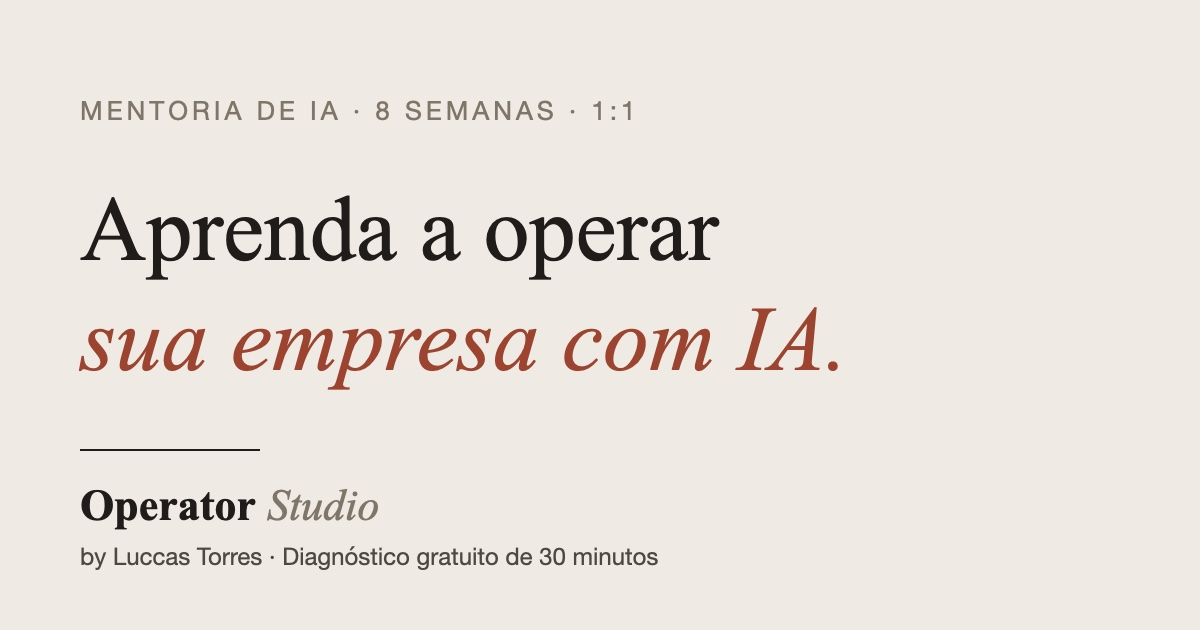
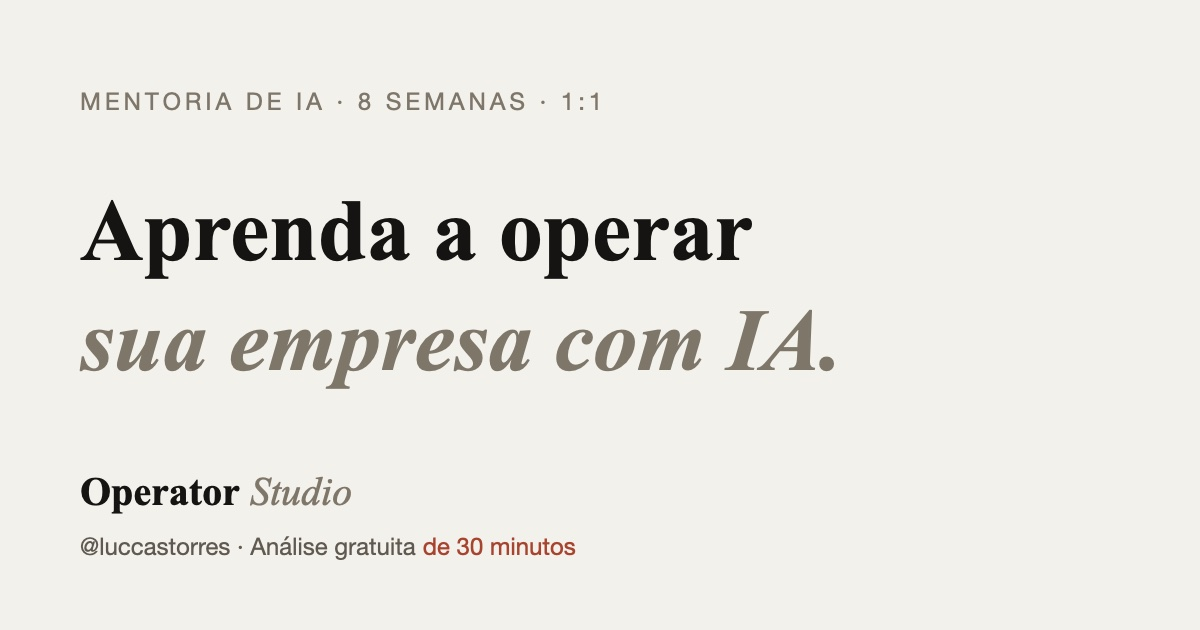
Apply the 2026 Visual Playbook palette
- Light grounds only: the former dark bands (O sistema, Como funciona),
  the console, the diagnostic card and the featured audience card invert
  their tokens to off-white ground with charcoal type
- Official tokens: off-white #FDFCF9 for cards and inputs, charcoal
  #2F2F2F for the waitlist pill, terracotta #A8442E only on
  "de 30 minutos"
- Brand lines: CTA "Análise gratuita de 30 minutos" and the promise
  "Mais tempo. Mais clientes. Menos caos." (PT and EN)
- Share image redrawn in the official palette, taupe payoff

diff --git a/index.html b/index.html
@@ -61,6 +61,7 @@
   --linen:#F3F1EC; --linen-2:#EAE6DF; --line:#D9D3C9;
   --taupe:#7E7669; --sand:#B5AEA2; --soft:#5F594F;
   --ok:#6E8B6A;
+  --offwhite:#FDFCF9; --terracotta:#A8442E; --charcoal:#2F2F2F;
   --serif:'Tinos','Times New Roman',Georgia,serif;
   --sans:'Hanken Grotesk','Helvetica Neue',Arial,sans-serif;
   color-scheme:light;
@@ -137,7 +138,7 @@ button{font:inherit;cursor:pointer}
 .word span{display:block;font-family:var(--sans);font-size:11px;letter-spacing:.24em;color:var(--taupe);margin-top:12px;text-transform:uppercase}
 .device{position:relative;width:min(640px,54vw);transform-style:preserve-3d;will-change:transform}
 .lid{background:#1b1a18;border-radius:14px 14px 4px 4px;padding:1.6%;box-shadow:0 50px 90px -40px rgba(21,20,18,.55),0 0 0 1px #2c2a27 inset}
-.screen{position:relative;aspect-ratio:16/10;background:#FBFAF7;border-radius:6px;overflow:hidden;container-type:inline-size}
+.screen{position:relative;aspect-ratio:16/10;background:var(--offwhite);border-radius:6px;overflow:hidden;container-type:inline-size}
 .base{height:14px;margin:0 -7%;background:linear-gradient(180deg,#CFCAC2,#A9A39A);border-radius:0 0 18px 18px;position:relative}
 .base:before{content:"";position:absolute;left:42%;right:42%;top:0;height:5px;background:#9a948b;border-radius:0 0 8px 8px}
 .shadow{position:absolute;left:4%;right:4%;bottom:-38px;height:30px;background:radial-gradient(50% 50% at 50% 50%,rgba(21,20,18,.28),transparent);filter:blur(6px)}
@@ -424,20 +425,20 @@ section{padding-block:clamp(64px,9vw,120px)}
 .fld{display:flex;flex-direction:column;gap:6px;min-width:0}
 .fld.full,.lead .full{grid-column:1/-1}
 .fld label{font-size:12px;letter-spacing:.14em;text-transform:uppercase;color:var(--taupe)}
-.fld input,.fld select,.fld textarea{font:inherit;font-size:16px;color:var(--ink);background:#FBFAF7;border:1px solid var(--line);border-radius:10px;padding:12px 14px;width:100%;box-sizing:border-box}
+.fld input,.fld select,.fld textarea{font:inherit;font-size:16px;color:var(--ink);background:var(--offwhite);border:1px solid var(--line);border-radius:10px;padding:12px 14px;width:100%;box-sizing:border-box}
 .fld input:focus,.fld select:focus,.fld textarea:focus{outline:2px solid var(--taupe);outline-offset:1px}
 .fld textarea{resize:vertical}
 .lead .btn{justify-content:center}
 
 .lbl{font-size:12px;letter-spacing:.14em;text-transform:uppercase;color:var(--taupe)}
 .days{display:grid;grid-template-columns:repeat(3,minmax(0,1fr));gap:8px}
-.day{background:#FBFAF7;border:1px solid var(--line);border-radius:12px;padding:10px 8px;text-align:center;display:flex;flex-direction:column;gap:2px;color:var(--ink)}
+.day{background:var(--offwhite);border:1px solid var(--line);border-radius:12px;padding:10px 8px;text-align:center;display:flex;flex-direction:column;gap:2px;color:var(--ink)}
 .day b{font-family:var(--serif);font-size:20px;font-weight:700}
 .day small{font-size:12px;color:var(--taupe)}
 .day[aria-pressed="true"]{background:var(--ink);border-color:var(--ink);color:var(--linen)}
 .day[aria-pressed="true"] small{color:var(--sand)}
 .slots{display:grid;grid-template-columns:repeat(4,minmax(0,1fr));gap:8px;margin-top:4px}
-.slot-b{background:#FBFAF7;border:1px solid var(--line);border-radius:10px;padding:11px 4px;font-size:15px;font-variant-numeric:tabular-nums;color:var(--ink)}
+.slot-b{background:var(--offwhite);border:1px solid var(--line);border-radius:10px;padding:11px 4px;font-size:15px;font-variant-numeric:tabular-nums;color:var(--ink)}
 .slot-b[aria-pressed="true"]{background:var(--ink);border-color:var(--ink);color:var(--linen)}
 .slot-b:disabled{color:#B9B3A8;text-decoration:line-through;cursor:not-allowed;background:transparent}
 .tz{font-size:13px;color:var(--soft)}
@@ -451,6 +452,19 @@ footer{border-top:1px solid var(--line);padding-block:28px}
 footer .wrap{display:flex;justify-content:space-between;gap:16px;flex-wrap:wrap;font-size:13px;color:var(--soft)}
 
 @media(prefers-reduced-motion:reduce){*,*:before,*:after{animation:none!important;transition:none!important}html{scroll-behavior:auto}}
+
+/* Visual Playbook 2026: light grounds only. Former dark blocks invert their tokens
+   (ink becomes the off-white ground, linen becomes charcoal type). */
+.dark,.console,.diag,.who-card.feat{
+  --ink:#FDFCF9; --ink-2:#F3F1EC; --ink-line:#D9D3C9;
+  --linen:#2F2F2F; --linen-2:#2F2F2F; --sand:#7E7669;
+}
+.dark{border-top:1px solid var(--line);border-bottom:1px solid var(--line)}
+.console,.diag,.who-card.feat{border:1px solid var(--line);box-shadow:none}
+.dark .cc,.dark .find[aria-pressed="true"]{background:#F3F1EC}
+/* Cards that were light inside the old dark band keep the original light tokens */
+.dark .client{--ink:#151412; --linen:#F3F1EC; --linen-2:#EAE6DF; border:1px solid var(--line)}
+.cta-accent{color:var(--terracotta)}
 </style>
 </head>
 <body>
@@ -515,6 +529,7 @@ footer .wrap{display:flex;justify-content:space-between;gap:16px;flex-wrap:wrap;
       <div><p class="eyebrow" data-i="mtEy">A Mentoria Operator</p><h2 style="margin-top:18px"><span data-i="mtH2a">Em 8 semanas, você aprende a usar o Claude</span> <em data-i="mtH2b">para ganhar tempo e dinheiro.</em></h2></div>
       <p data-i="mtP" style="max-width:52ch">Mentoria individual, ao vivo e por videochamada. A cada semana você constrói uma peça real do seu negócio comigo e sai sabendo operar tudo sozinho. Para donos de pequenos negócios, salões, mentores e consultores.</p>
     </div>
+    <p style="font-family:var(--serif);font-size:clamp(22px,2.4vw,30px);margin:8px 0 28px"><span data-i="mtPr1">Mais tempo. Mais clientes.</span> <em data-i="mtPr2" style="color:var(--taupe)">Menos caos.</em></p>
     <div class="services">
       <div class="svc"><p class="eyebrow" data-i="mw1e">Semana 1</p><h3 data-i="mw1h">Fundamentos e assistente do negócio</h3><p data-i="mw1p" style="margin-top:10px">Um assistente que conhece o seu negócio, respostas prontas no WhatsApp e um modelo de proposta.</p></div>
       <div class="svc"><p class="eyebrow" data-i="mw2e">Semana 2</p><h3 data-i="mw2h">Marca</h3><p data-i="mw2p" style="margin-top:10px">Uma marca clara, um Brand Kit de uma página e templates no Canva.</p></div>
@@ -525,7 +540,7 @@ footer .wrap{display:flex;justify-content:space-between;gap:16px;flex-wrap:wrap;
       <div class="svc"><p class="eyebrow" data-i="mw7e">Semana 7</p><h3 data-i="mw7h">Agentes de IA e integrações</h3><p data-i="mw7p" style="margin-top:10px">Um agente que responde clientes com base no seu negócio e registra tudo no CRM.</p></div>
       <div class="svc"><p class="eyebrow" data-i="mw8e">Semana 8</p><h3 data-i="mw8h">ROI e plano de 90 dias</h3><p data-i="mw8p" style="margin-top:10px">Quanto tempo e dinheiro a IA liberou, medido em números, e o plano dos próximos 90 dias.</p></div>
     </div>
-    <p style="margin-top:32px;display:flex;flex-wrap:wrap;gap:12px;align-items:center"><a class="btn" href="#contato" data-i="mtCta">Agendar meu diagnóstico gratuito</a> <a href="#servicos" data-i="mtAlt" style="text-decoration:underline">Prefere que a gente construa para você?</a></p>
+    <p style="margin-top:32px;display:flex;flex-wrap:wrap;gap:12px;align-items:center"><a class="btn" href="#contato" data-i="mtCta">Análise gratuita de 30 minutos</a> <a href="#servicos" data-i="mtAlt" style="text-decoration:underline">Prefere que a gente construa para você?</a></p>
   </div>
 </section>
 
@@ -672,7 +687,7 @@ footer .wrap{display:flex;justify-content:space-between;gap:16px;flex-wrap:wrap;
     <div class="box">
       <div class="side">
         <p class="eyebrow" data-i="ctEy">Diagnóstico gratuito · Online</p>
-        <h2 style="margin-top:18px"><span data-i="ctH2a">Análise gratuita</span> <em data-i="ctH2b">de 30 minutos.</em></h2>
+        <h2 style="margin-top:18px"><span data-i="ctH2a">Análise gratuita</span> <em class="cta-accent" data-i="ctH2b">de 30 minutos.</em></h2>
         <p data-i="ctP">Escolha um horário e reserve sua análise gratuita de 30 minutos. Vamos mostrar onde o seu negócio pode economizar tempo e dinheiro.</p>
         <div class="copyline"><span data-i="ctOr">Ou fale direto:</span><a href="https://www.instagram.com/luccastorres/" target="_blank" rel="noopener"><code id="handle">@luccastorres</code></a><button type="button" id="copy" data-i="ctCopy">Copiar</button></div>
       </div>
@@ -720,7 +735,7 @@ orcH:'Build a budget',exTag:'Sample figures',orcL1:'Rooms',orcL2:'Finish',sh1:'S
 orcNote:'In the real system, every line comes from the project measurements and your own price list.',
 visH:'Handover inspection',exTag2:'Illustrative example',ageH:'Pick an agent and give it a task',exTag3:'Demo',
 marH:'Type your brand name',exTag4:'Live',marL1:'Name',marL2:'Style',marL3:'Palette',marSub:'By Operator Studio',
-mtEy:'The Operator Mentorship',mtH2a:'In 8 weeks, you learn to use Claude',mtH2b:'to save time and money.',mtP:'One-to-one, live, by video call. Each week you build a real piece of your business with me and leave knowing how to run it yourself. For small-business owners, salons, mentors and consultants.',mtCta:'Book my free audit',mtAlt:'Rather have us build it for you?',mw1e:'Week 1',mw1h:'AI basics and your business assistant',mw1p:'An assistant that knows your business, ready-made WhatsApp replies and a proposal template.',mw2e:'Week 2',mw2h:'Brand',mw2p:'A clear brand, a one-page Brand Kit and Canva templates.',mw3e:'Week 3',mw3h:'Website',mw3p:'A professional page that takes enquiries or bookings on its own.',mw4e:'Week 4',mw4h:'Content and Instagram',mw4p:'A refreshed profile, 9 posts ready to go and a 30-day calendar.',mw5e:'Week 5',mw5h:'Sales, CRM and lead capture',mw5p:'A CRM with your clients and every new lead flowing in automatically, with follow-ups.',mw6e:'Week 6',mw6h:'Processes and internal system',mw6p:'One critical process mapped, documented and running in an internal system.',mw7e:'Week 7',mw7h:'AI agents and integrations',mw7p:'An agent that answers clients from your business knowledge and logs everything in the CRM.',mw8e:'Week 8',mw8h:'ROI and 90-day plan',mw8p:'How much time and money AI freed up, in real numbers, plus your next 90 days.',svEy:'We can also do it for you',svH2a:'Rather have us',svH2b:'build it?',svP:'Every project starts with your real problem and ends with something your team uses the next day.',
+mtEy:'The Operator Mentorship',mtH2a:'In 8 weeks, you learn to use Claude',mtH2b:'to save time and money.',mtP:'One-to-one, live, by video call. Each week you build a real piece of your business with me and leave knowing how to run it yourself. For small-business owners, salons, mentors and consultants.',mtCta:'Free 30-minute analysis',mtPr1:'More time. More clients.',mtPr2:'Less chaos.',mtAlt:'Rather have us build it for you?',mw1e:'Week 1',mw1h:'AI basics and your business assistant',mw1p:'An assistant that knows your business, ready-made WhatsApp replies and a proposal template.',mw2e:'Week 2',mw2h:'Brand',mw2p:'A clear brand, a one-page Brand Kit and Canva templates.',mw3e:'Week 3',mw3h:'Website',mw3p:'A professional page that takes enquiries or bookings on its own.',mw4e:'Week 4',mw4h:'Content and Instagram',mw4p:'A refreshed profile, 9 posts ready to go and a 30-day calendar.',mw5e:'Week 5',mw5h:'Sales, CRM and lead capture',mw5p:'A CRM with your clients and every new lead flowing in automatically, with follow-ups.',mw6e:'Week 6',mw6h:'Processes and internal system',mw6p:'One critical process mapped, documented and running in an internal system.',mw7e:'Week 7',mw7h:'AI agents and integrations',mw7p:'An agent that answers clients from your business knowledge and logs everything in the CRM.',mw8e:'Week 8',mw8h:'ROI and 90-day plan',mw8p:'How much time and money AI freed up, in real numbers, plus your next 90 days.',svEy:'We can also do it for you',svH2a:'Rather have us',svH2b:'build it?',svP:'Every project starts with your real problem and ends with something your team uses the next day.',
 s1e:'Systems & automation',s1h:'Operations that run themselves',s1p:'Sales CRM, budgets, reports, proposals and AI agents that take care of the repetitive work in your business.',s1z:'Sales CRM',s1a:'Automatic budgets',s1b:'AI agents',s1c:'Internal apps',s1d:'Automations',
 s2e:'Websites & landing pages',s2h:'A website that sells for you',s2p:'Company websites and sales pages with lead capture, ready for campaigns and for mobile.',s2a:'Company website',s2b:'Sales page',s2c:'Lead capture',
 s3e:'Brand',s3h:'An identity with presence',s3p:'Name, positioning, logo, palette, typography and brand book, so the brand is born strong and consistent.',s3a:'Positioning',s3b:'Logo & identity',s3c:'Brand book',
@@ -943,7 +958,7 @@ function renderBooking(){
     daysEl.closest('.fld').hidden=true;
     const sideP=document.querySelector('[data-i="ctP"]'),h2a=document.querySelector('[data-i="ctH2a"]'),h2b=document.querySelector('[data-i="ctH2b"]');
     let tag=document.getElementById('full-tag');
-    if(!tag){tag=document.createElement('span');tag.id='full-tag';tag.style.cssText='display:inline-flex;width:fit-content;align-self:flex-start;align-items:center;gap:10px;margin-top:18px;background:#151412;color:#F3F1EC;padding:9px 18px;border-radius:999px;font-size:13px;letter-spacing:.16em;text-transform:uppercase';h2a.parentElement.before(tag)}
+    if(!tag){tag=document.createElement('span');tag.id='full-tag';tag.style.cssText='display:inline-flex;width:fit-content;align-self:flex-start;align-items:center;gap:10px;margin-top:18px;background:#2F2F2F;color:#F3F1EC;padding:9px 18px;border-radius:999px;font-size:13px;letter-spacing:.16em;text-transform:uppercase';h2a.parentElement.before(tag)}
     tag.innerHTML='<i style="width:9px;height:9px;border-radius:50%;background:#C9A36A;box-shadow:0 0 0 5px rgba(201,163,106,.25)"></i>'+T('Agenda completa','Fully booked');
     h2a.textContent=T('Agenda completa.','Fully booked.');h2b.textContent=T('Entre na nossa lista de espera.','Join our waiting list.');
     sideP.textContent=T('Todos os horários desta rodada foram reservados. Deixe seu contato e eu te chamo assim que abrir uma nova agenda.','All times in this round are booked. Leave your details and I will reach out as soon as a new round opens.');
